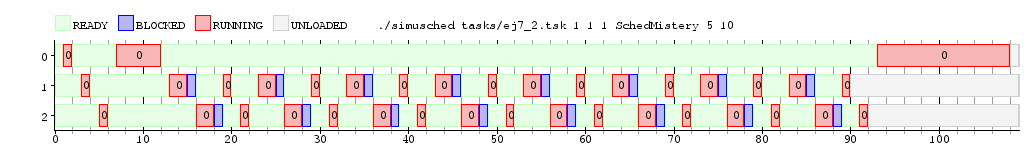
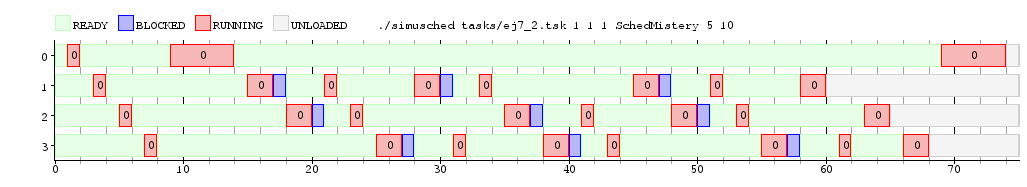
finish  explication of research schedler.

diff --git a/latex/ej7.tex b/latex/ej7.tex
@@ -1,22 +1,41 @@
+\newpage
 \section{Ejercicio 7}
-Para entender el schedler, hemos corrido  una serie de task .
+	\subsection{Analisis del Schedler}
 
-\begin{figure}[ht]
-	\begin{center}
-		\includegraphics[width=1\columnwidth]{imagenes/ej7_1.png}
-		\caption{Dos \texttt{TaskCPU} con 20 quantums.}
-	\end{center}
-\end{figure}
+	Para entender el schedler, hemos corrido  una serie de tareas .
 
-Hemos Corrido 3 tasks, cada una con 20 quantums, sin ninguna interupción. Se puede apreciar que una vez acabadosus quantums, es agregado en la siguiente cola con menor prioridad , si hay , y una vez desencolado los task pendientes en una cola pasa a la siguiente.
+	\begin{figure}[ht]
+		\begin{center}
+			\includegraphics[width=1\columnwidth]{imagenes/ej7_1.png}
+			\caption{Dos \texttt{TaskCPU} con 20 quantums.}
+		\end{center}
+	\end{figure}
+
+	Se puede apreciar que cuando una  tarea acaba sus quantums, es quitada de la cola donde esta y es  agregada en la siguiente cola con menor prioridad , si es posible , en caso contrario quedara en la cola donde pertenece (La de menor prioridad) . Una vez que el schedler desencola todas las tareas pendientes en una cola pasa a la siguiente.
 
 
-\begin{figure}[ht]
-	\begin{center}
-		\includegraphics[width=1\columnwidth]{imagenes/ej7_2.png}
-		\caption{\texttt{TaskBatch} corriendo con $\texttt{total\_cpu} = 4$,
-		$\texttt{cant\_bloqueos} = 2$.}
-	\end{center}
-\end{figure}
+	\begin{figure}[ht]
+		\begin{center}
+			\includegraphics[width=1\columnwidth]{imagenes/ej7_2.png}
+			\caption{Un \texttt{TaskCPU} corriendo con 20 quantums y tres \texttt{TaskAlterno} alterando 2 quantums de uso de kernel , 1 de bloqueo}
+		\end{center}
+	\end{figure}
 
-Hemos Corrido 3 tasks, una con 20 quantums, sin ninguna interupción, y otras dos que por cada 2 quantums se bloquea 1 . Como se puede apreciar este schedler permite starvation, haciendo que la tareas con pocas interupciones se acumulen en las colas con menor prioridad, esperando que las tasks de mayor prioridad acaben para que les toque a ellos.
+	Como se puede apreciar este schedler permite starvation, es que las tareas con pocos ó ningun bloqueo se acumulen en las colas con menor prioridad, esperando ha que las tareas de mayor prioridad terminen para que les toque a ellas.
+	Cuando una tarea se desbloquea , es la proxima tarea ha correr y su nivel de prioridad aumenta en uno.
+
+	\begin{figure}[ht]
+		\begin{center}
+			\includegraphics[width=1\columnwidth]{imagenes/ej7_3.png}
+			\caption{Un \texttt{TaskCPU} corriendo con 20 quantums y un \texttt{TaskAlterno} alterando 2 quantums de uso de kernel , 1 de bloqueo al principio y despues 4 y 2.}
+		\end{center}
+	\end{figure}
+
+	Como se ve la tarea IDEL  actua como se espera , cuando no hay nada para correr , corre la IDEL.
+
+	Los quantums asignados a las colas de prioridad son 1 quatum a la de maxima prioridad y los argumentos pasados por parametro son las siguientes prioridades.
+
+	\subsection{Implementación del Schedler}
+
+
+
